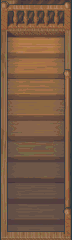
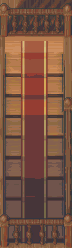
Treppe räumlich: Stufen steigen sichtbar an, passend zur Hub-Mechanik
- treppe-holz und treppenloch zeigen dieselbe Treppe in Hauskoordinaten (13 Steigungen à 2,4 E,
  Auftritt 4 E), geschert mit SH = 15/31,2: Trittfläche an Weltposition y erscheint um
  15·(156−y)/52 E nach Norden versetzt – genau wie der angehobene Held.
- Holztreppe: helle Trittstufen mit Stufenkante, dunkle Setzstufen, roter Läufer mit goldener Borte,
  Wange an der Westwand, Ostseite mit Wange, Docken, Handlauf, kräftigem Antrittspfosten und
  Austrittspfosten, Antrittsstufe breiter und gerundet mit Messingkante, Deckenwechsel oben.
- Treppenloch: dieselben Stufen in die Tiefe (dunkler nach unten), Einfassung, Brüstung im Norden,
  Geländer im Osten erst ab y 126 (Zugang oben im Nordosten frei) und im Süden.
- paintStairs: Erdgeschoss-Rechteck (minY−24, d+24), Obergeschoss (minY−10, d+10);
  Unterkante und Breite bleiben das Treppenfeld.

diff --git a/bude-house-art.js b/bude-house-art.js
@@ -19,8 +19,9 @@ const fill=(c,color,x,y,w,h)=>{c.fillStyle=color;c.fillRect(x,y,w,h);};
 /** Treppe (Erdgeschoss: Stufen) beziehungsweise Treppenloch mit Geländer (Obergeschoss). */
 function paintStairs(c,f,level){
  const s=f.stairs;if(!s)return;const w=s.maxX-s.minX,d=s.maxY-s.minY,steps=Math.max(4,Math.round((d>w?d:w)/6)),long=d>w;
- // Baukasten-Sprite (Holztreppe unten, Treppenloch mit Geländer oben), sonst Platzhalter.
- if(level?drawKitFill(c,'treppenloch',s.minX,s.minY-8,w,d+8):drawKitFill(c,'treppe-holz',s.minX,s.minY-4,w,d+4))return;
+ // Baukasten-Sprite (Holztreppe unten, Treppenloch mit Geländer oben), sonst Platzhalter. Unterkante und Breite = Treppenfeld;
+ // oben der Überstand der geschert gerenderten Höhe (Modellhöhen in tools/sprite-forge/models/aussen.mjs: 52+24 und 52+10 E).
+ if(level?drawKitFill(c,'treppenloch',s.minX,s.minY-10,w,d+10):drawKitFill(c,'treppe-holz',s.minX,s.minY-24,w,d+24))return;
  if(level){fill(c,'#1b1410',s.minX,s.minY,w,d);for(let i=1;i<4;i++)fill(c,'#2c2119',long?s.minX:s.minX+w*i/4,long?s.minY+d*i/4:s.minY,long?w:2,long?2:d);
   // Geländer an der offenen Seite und am oberen Ende
   fill(c,INK,s.maxX,s.minY-10,3,d+10);fill(c,'#7b5634',s.maxX,s.minY-10,2,d+8);fill(c,'#7b5634',s.minX,s.minY-10,w+2,2);for(let y=s.minY;y<=s.maxY;y+=10)fill(c,'#7b5634',s.maxX,y-8,2,8);}
